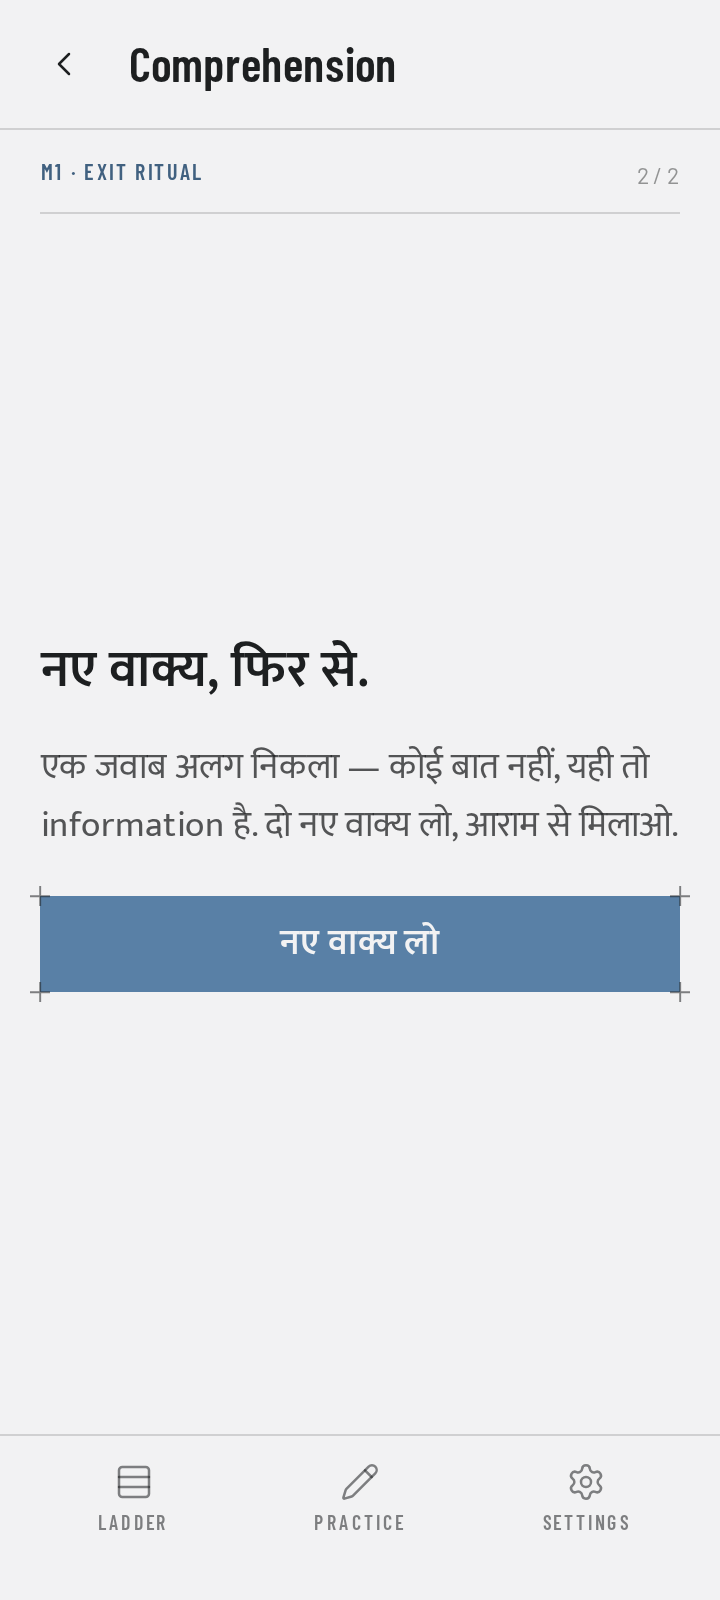
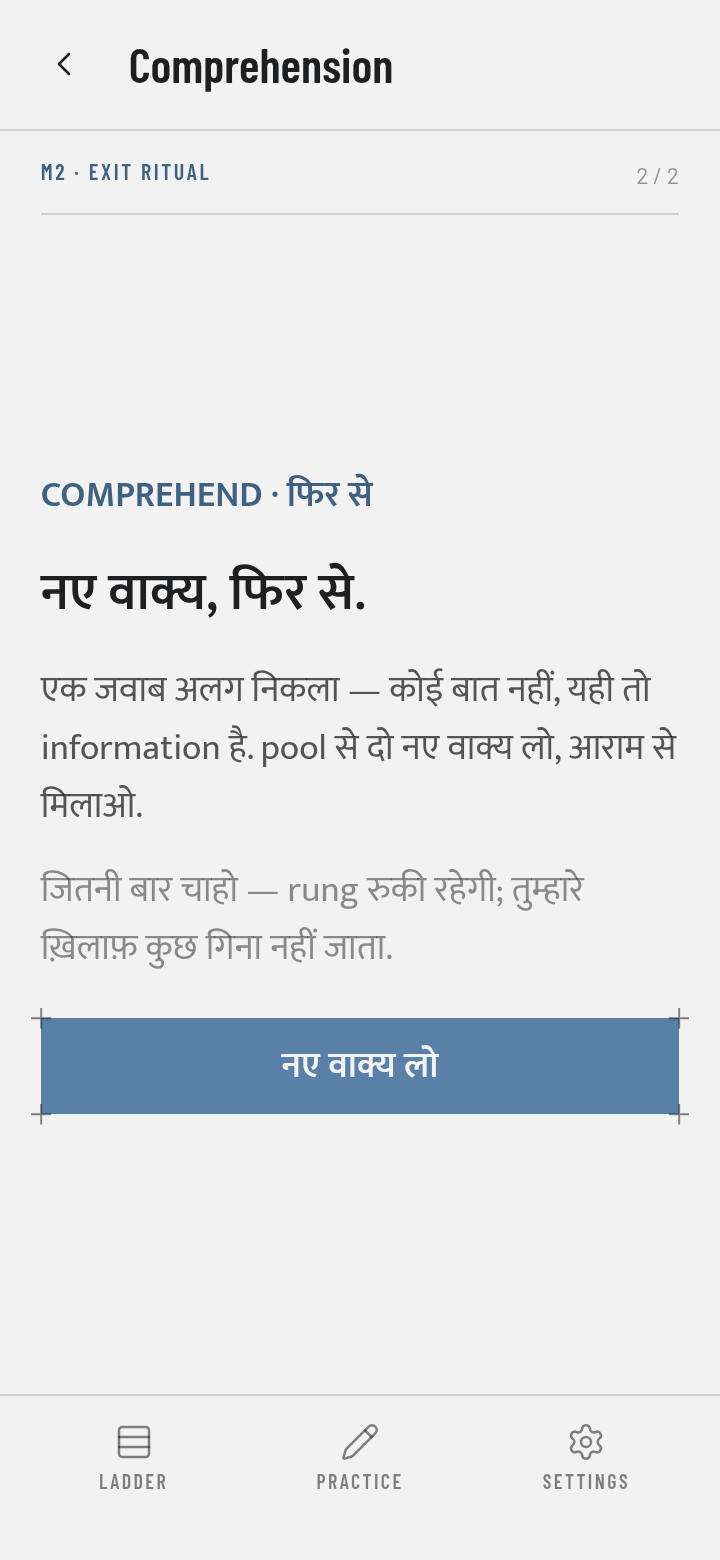
qa(fidelity): the prototype-fidelity pass — retry kicker off the Barlow wall, close the walk (#117)
The capstone walk (every screen, 360/430, hi-mr + en-ar fixture, reduced motion)
found ONE unrecorded delta: the retry interstitial's kicker set the course's own
"COMPREHEND · फिर से" in the --text-kicker recipe, which draws Devanagari as
notdef boxes — the tofu arrived when Sync-3 (#71) minted retry.kicker AFTER
#102's screenshot pass. It now takes the standing course-label treatment
(#89 trapHead / #93 cueLabel / #100 plate label), a stylesheet test keeps every
Barlow face and uppercase out of the interstitial for good, and the committed
baseline shows all five layers rendering.

Everything else on the matrix: match, or a divergence already recorded on #117
and sanctioned by the ratified design package. Full matrix in the PR.

Claude-Session: https://claude.ai/code/session_014ubqxiKAuBiefjEFtL95kE

diff --git a/src/screens/ComprehensionScreen.test.tsx b/src/screens/ComprehensionScreen.test.tsx
@@ -38,6 +38,7 @@ import { DEV_MANIFEST, mockContentFetch } from '../test/courseManifest.ts';
 import { moduleFixture } from '../test/courseContent.ts';
 import { stringValue } from '../test/courseStrings.ts';
 import itemSource from './comprehension/ComprehensionItem.tsx?raw';
+import retryCss from './comprehension/RetryInterstitial.module.css?raw';
 import retrySource from './comprehension/RetryInterstitial.tsx?raw';
 import screenSource from './ComprehensionScreen.tsx?raw';
 
@@ -368,6 +369,22 @@ describe('any "not quite" deals fresh sentences, calmly and forever', () => {
     // No item is on screen, so nothing counts one: the head keeps the ritual's part and drops the
     // position (`2 / 2`, and no `1 / 2` beside it).
     expect(screen.queryByText(/\d \/ 2 · /)).toBeNull();
+  });
+
+  /**
+   * All five of the interstitial's layers are course copy (tokens.md §6.3 ships them as
+   * `retry.*` in the bundle), so none of them may take a Barlow face or be uppercased:
+   * design/tokens.md §2 puts all Devanagari in Mukta at ≥ `--devanagari-min-size`, and §4's
+   * course-type ruling says the prototype's kicker recipe is its *English* rendering, not a
+   * license. The kicker set as a `--text-kicker` kicker drew literal notdef boxes for
+   * "COMPREHEND · फिर से" on the real screen — caught in #117's walk, same wall as #89's
+   * `trapHead` and #93's `cueLabel`. This reads the stylesheet so it cannot come back.
+   */
+  it('sets no layer of the interstitial in a kicker face — every line is course copy', () => {
+    const declarations = retryCss.replace(/\/\*[\s\S]*?\*\//g, '');
+    expect(declarations).not.toMatch(/--text-kicker/);
+    expect(declarations).not.toMatch(/text-transform/);
+    expect(declarations).not.toMatch(/--kicker-tracking/);
   });
 
   it('deals two NEW sentences, and never one the attempt just used', async () => {

diff --git a/src/screens/comprehension/RetryInterstitial.module.css b/src/screens/comprehension/RetryInterstitial.module.css
@@ -25,13 +25,20 @@
   }
 }
 
-/* Layer 1 of tokens.md §6.3 — the course's own `COMPREHEND · फिर से`, in the kicker recipe the
-   spec names for it (`--text-kicker` + tracking, `--color-accent-700`). */
+/* Layer 1 of tokens.md §6.3 — the course's own `COMPREHEND · फिर से`. §6.3 recipes it as a
+   `--text-kicker` kicker, but that is the prototype's *English* rendering: the string is course
+   copy (Sync-3 minted it per course precisely because "again" is the course's own word), and
+   tokens.md §4's course-type ruling + §2 forbid Devanagari in Barlow at kicker size — set as a
+   kicker it literally drew notdef boxes on the real screen (caught in #117's walk). So it takes
+   the standing course-label treatment (#89 `trapHead`, #93 `cueLabel`, #100 plate label): the
+   smallest Mukta slot pulled to the floor, label-weighted, in the kicker's ink — and the
+   uppercasing and tracking go with it, since Devanagari has no case to raise and a kicker that
+   shouts in the English courses and whispers in the Hindi one is not one component. */
 .kicker {
   margin: 0;
-  font: var(--text-kicker);
-  letter-spacing: var(--kicker-tracking);
-  text-transform: uppercase;
+  font: var(--text-l2-cue);
+  font-size: var(--devanagari-min-size);
+  font-weight: var(--font-heading-weight);
   color: var(--color-accent-700);
 }
 

diff --git a/docs/06-fidelity-matrix.md b/docs/06-fidelity-matrix.md
@@ -46,7 +46,8 @@ phone; recorded on #117).
 | Practice · read / produce / tick / resume / summary | match | committed baselines (`practice-*.png`, #96/#102) + phase tests; tick numberless, default ON |
 | Ritual · arc (write / check / confirm) | match | #100 record: bare-ordinal title, `1 / 2` counts, dashed plate zero-interactive (mechanised), no marks on the dashed plate (sanctioned) |
 | Ritual · hold | match | ~900ms fill, release resets, reduced-motion static (`HoldToConfirm` tests + `ritual-hold-*.png`) |
-| Comprehension · items / marked / retry | match | §6.3 all five retry layers, no counter, no red outside marks; deep link without the hold's handover lands on the ritual arc (guarded route, sanctioned) |
+| Comprehension · items / marked | match | no counter, no red outside marks; deep link without the hold's handover lands on the ritual arc (guarded route, sanctioned) |
+| Comprehension · retry interstitial | **fixed** | §6.3's five layers render, but the kicker (`retry.kicker`, course copy minted at Sync-3 AFTER #102's screenshot pass) was set in the `--text-kicker` Barlow recipe — literal notdef boxes for "COMPREHEND · फिर से" on the hi-mr screen. Re-set in the standing course-label treatment (#89 `trapHead`, #93 `cueLabel`, #100 plate label); a stylesheet test in `ComprehensionScreen.test.tsx` now keeps Barlow faces and `text-transform` out of the interstitial; baseline `docs/images/comprehension-retry-360.png` refreshed (PR #179) |
 | Verdict · pass + unlock handover | match | checklist + both honesty lines (#71 ratification), one-shot flag consumed on the Ladder; deep link without a pass redirects (guarded, sanctioned) |
 | Settings · course / tick / storage / backup | match | §6.2 recipe: native select ≥16px at 44px, counts-only status line, frozen reassurance footer; storage computed rows; switch toast in the NEW course's words |
 | Boot / offline / error | match | `offline-*.png` receipts (#91, docs/05-pwa-notes.md); content-error screen #79 |
@@ -68,11 +69,14 @@ phone; recorded on #117).
 ## Deltas
 
 1. **Fixed here:** the staged rung card's production-dots row + writes count (§6.1 anatomy,
-   prototype draws it in all four stages) — was absent in every stage.
-2. **Filed:** the notebook invitation (PRD-design §8.1, decided on #67) is still an empty slot on
+   prototype draws it in all four stages) — was absent in every stage (PR #178).
+2. **Fixed here:** the retry interstitial's kicker set course copy ("COMPREHEND · फिर से") in
+   the Barlow `--text-kicker` recipe — notdef boxes since the #113 subsetting; re-set in the
+   standing course-label treatment, stylesheet-guarded (PR #179).
+3. **Filed:** the notebook invitation (PRD-design §8.1, decided on #67) is still an empty slot on
    the Practice hub — needs a persisted dismissal bit (state-shape change), so it is an issue,
    not a QA-pass fix.
-3. **Device cells** (cannot be honestly produced on this headless host): real-phone walk — iOS
+4. **Device cells** (cannot be honestly produced on this headless host): real-phone walk — iOS
    Add-to-Home-Screen + splash, Android WebAPK, safe-area insets on a notched device, native
    select feel, press-and-hold on touch. Recorded on #117; the headless halves (installability,
    manifest, splash set, offline) carry receipts in docs/05-pwa-notes.md.
